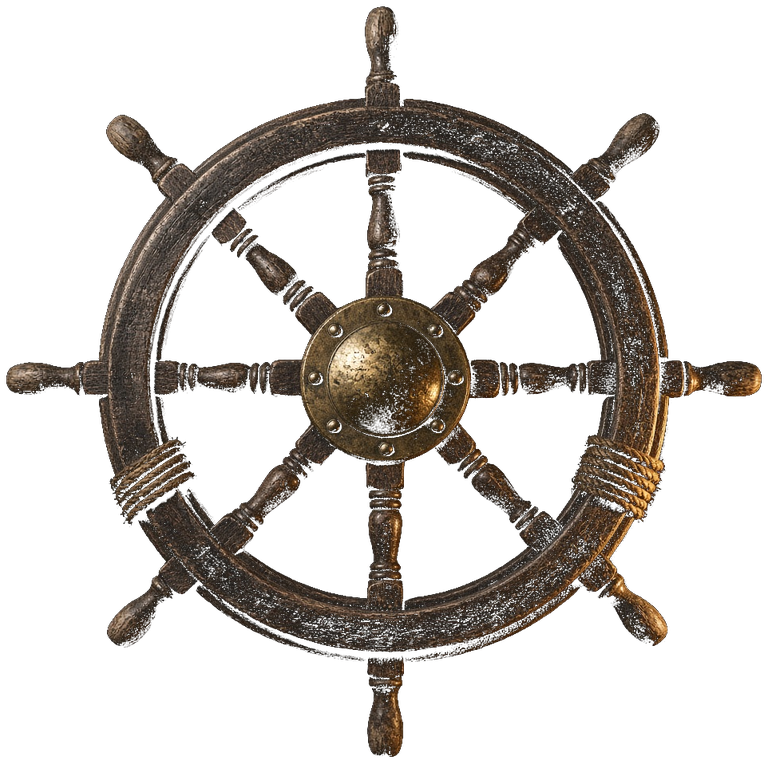
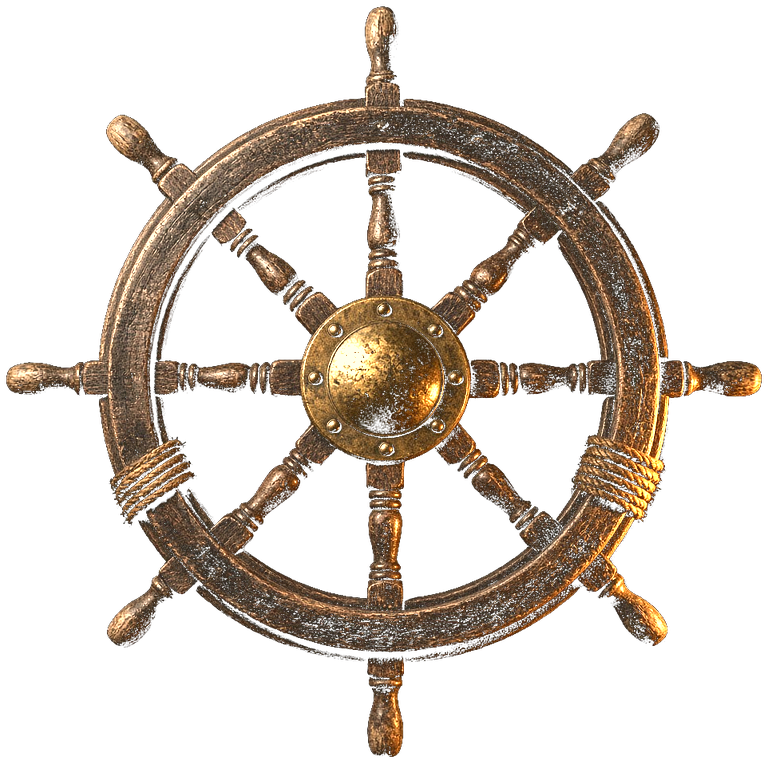
Ship: brighten PotC wheel composite, fix night-grade bleed
Wheel photo was getting a source-atop grade on the main canvas, which
darkened the deck through transparent pixels and made the helm look
ghosty. Grade on an offscreen canvas, lift wheel/deck exposure, bump
to ship.js?v=potc2.

Changed region(s): [[0.0, 0.0, 1.0, 0.9935]]

diff --git a/projects.html b/projects.html
@@ -13,5 +13,5 @@
 <div class="grid"><article class="proj glass feat" data-cat="Education"><a class="shot" href="https://inteloasis.com" target="_blank" rel="noopener" tabindex="-1"><img src="assets/shots/inteloasis.webp" alt="Screenshot of IntelOasis" loading="lazy" width="720" height="450"></a><div class="pb"><div class="ph2"><h3>IntelOasis</h3><span class="tag">Education</span></div><p><strong>Every problem has a thousand solutions. IntelOasis is where Charles keeps them.</strong> It is a living library of ideas, books, software, clubs, and traditions, and it is the roof over everything else here. <strong>It holds the vision. The products below put it into practice.</strong></p><ul class="stack"><li>React</li><li>Vite</li><li>Tailwind</li></ul><div class="links"><a class="btn" href="https://inteloasis.com" target="_blank" rel="noopener">Visit ↗</a><a class="btn ghost" href="https://github.com/charlesanthonyleone/intel-oasis" target="_blank" rel="noopener">GitHub ↗</a></div></div></article><article class="proj glass feat" data-cat="Games"><a class="shot" href="https://scavengia.com" target="_blank" rel="noopener" tabindex="-1"><img src="assets/shots/scavengia.webp" alt="Screenshot of Scavengia" loading="lazy" width="720" height="450"></a><div class="pb"><div class="ph2"><h3>Scavengia</h3><span class="tag">Games</span></div><p><strong>Scavengia is an AI-powered index of everything, and people build it by exploring the world.</strong> Players go out, open caches, and pay to explore. Each discovery adds real places, objects, images, lore, and rarity to a shared map of the planet. <strong>When everything has been found, the AI keeps digging.</strong> It surfaces the precedent: the history and the earlier finds behind each place. <strong>It connects people on opposite sides of the world</strong> through the same hunt. <strong>Ride-alongs fix two problems at once.</strong> Someone who is driving and can&#x27;t play takes along someone who can play but can&#x27;t move. The driver moves the game forward and the remote player gets to explore. <strong>Nobody is left out of the hunt.</strong></p><ul class="stack"><li>TypeScript</li><li>Capacitor Android</li></ul><div class="links"><a class="btn" href="https://scavengia.com" target="_blank" rel="noopener">Visit ↗</a></div></div></article><article class="proj glass feat" data-cat="Civic"><a class="shot" href="https://recordoflaw.com" target="_blank" rel="noopener" tabindex="-1"><img src="assets/shots/recordoflaw.webp" alt="Screenshot of RecordOfLaw" loading="lazy" width="720" height="450"></a><div class="pb"><div class="ph2"><h3>RecordOfLaw</h3><span class="tag">Civic/Politics</span></div><p><strong>Who made the law, when, and how.</strong> RecordOfLaw records offices, officeholders, and legal changes. <strong>Every entry is dated, sourced, and cross-linked.</strong> It starts with FDR and the New Deal, and the build checks its data before it compiles. <strong>The 2026 Midterm Tracker is live.</strong></p><ul class="stack"><li>Python pipeline</li><li>Vite + TS</li></ul><div class="links"><a class="btn" href="https://recordoflaw.com" target="_blank" rel="noopener">Visit ↗</a><a class="btn ghost" href="https://recordoflaw.com/midterms/" target="_blank" rel="noopener">2026 Midterm Tracker ↗</a></div></div></article><article class="proj glass" data-cat="Education"><a class="shot" href="https://leoneuniversity.org" target="_blank" rel="noopener" tabindex="-1"><img src="assets/shots/leone-university.webp" alt="Screenshot of Leone University" loading="lazy" width="720" height="450"></a><div class="pb"><div class="ph2"><h3>Leone University</h3><span class="tag">Education</span></div><p><strong>A think tank where ideas are kept as records.</strong> It started as a prototype on the Base44 AI app builder. <strong>Charles rebuilt it as a standalone React app</strong> that deploys automatically through GitHub Actions.</p><ul class="stack"><li>Vite</li><li>React</li></ul><div class="links"><a class="btn" href="https://leoneuniversity.org" target="_blank" rel="noopener">Visit ↗</a><a class="btn ghost" href="https://github.com/charlesanthonyleone/leone-university" target="_blank" rel="noopener">GitHub ↗</a></div></div></article><article class="proj glass" data-cat="Education"><a class="shot" href="https://library.leoneuniversity.org" target="_blank" rel="noopener" tabindex="-1"><img src="assets/shots/leone-library.webp" alt="Screenshot of Leone Library" loading="lazy" width="720" height="450"></a><div class="pb"><div class="ph2"><h3>Leone Library</h3><span class="tag">Education</span></div><p><strong>Read, translate, remix, and publish the public-domain classics.</strong> Its catalogue is fed by ingestion pipelines from Project Gutenberg and LibriVox. <strong>It&#x27;s a free library meant to be built on.</strong></p><ul class="stack"><li>TypeScript</li></ul><div class="links"><a class="btn" href="https://library.leoneuniversity.org" target="_blank" rel="noopener">Visit ↗</a><a class="btn ghost" href="https://github.com/charlesanthonyleone/leonelibrary" target="_blank" rel="noopener">GitHub ↗</a></div></div></article><article class="proj glass" data-cat="Community"><a class="shot" href="https://charlesanthonyleone.github.io/leoneguard-stats/" target="_blank" rel="noopener" tabindex="-1"><img src="assets/shots/leoneguard-stats.webp" alt="Screenshot of LeoneGuard" loading="lazy" width="720" height="450"></a><div class="pb"><div class="ph2"><h3>LeoneGuard</h3><span class="tag">Community</span></div><p><strong>Moderation that can tell venting from attacking.</strong> At its core is DramaScreen, a low-cost harassment detector that ignores banter and acts on targeted personal attacks. <strong>The public stats page shows only totals, with no names and no messages.</strong></p><ul class="stack"><li>TypeScript</li><li>Docker</li><li>Postgres</li><li>Redis</li><li>Local LLM</li></ul><div class="links"><a class="btn" href="https://charlesanthonyleone.github.io/leoneguard-stats/" target="_blank" rel="noopener">Visit ↗</a><a class="btn ghost" href="https://charlesanthonyleone.github.io/leoneguard-stats/" target="_blank" rel="noopener">Public stats ↗</a></div></div></article><article class="proj glass" data-cat="Community"><a class="shot" href="https://xatmarket.com" target="_blank" rel="noopener" tabindex="-1"><img src="assets/shots/xatmarket.webp" alt="Screenshot of XatMarket" loading="lazy" width="720" height="450"></a><div class="pb"><div class="ph2"><h3>XatMarket</h3><span class="tag">Community</span></div><p><strong>Services, staff, and ideas for xat communities.</strong> XatMarket is the home base for the xat chat community, and <strong>WarMap and XatCast launch from it.</strong></p><ul class="stack"><li>JavaScript</li></ul><div class="links"><a class="btn" href="https://xatmarket.com" target="_blank" rel="noopener">Visit ↗</a></div></div></article><article class="proj glass" data-cat="Community"><a class="shot" href="https://tv.xatmarket.com" target="_blank" rel="noopener" tabindex="-1"><img src="assets/shots/xatcast.webp" alt="Screenshot of XatCast" loading="lazy" width="720" height="450"></a><div class="pb"><div class="ph2"><h3>XatCast</h3><span class="tag">Community</span></div><p><strong>A broadcast network that airs only work the public is free to use.</strong> It runs always-on stations (XatArt, XatWar, XatSports, XatMusic) fed from the Met, the Art Institute of Chicago, Wikimedia Commons, and the Internet Archive. <strong>The license and attribution are recorded for every item.</strong> A shared broadcast clock means <strong>every viewer sees the same thing at the same second.</strong></p><ul class="stack"><li>TypeScript</li><li>Live</li></ul><div class="links"><a class="btn" href="https://tv.xatmarket.com" target="_blank" rel="noopener">Visit ↗</a></div></div></article><article class="proj glass" data-cat="Civic"><a class="shot" href="https://maps.xatmarket.com" target="_blank" rel="noopener" tabindex="-1"><img src="assets/shots/xatmaps.webp" alt="Screenshot of XatMaps · WarMap" loading="lazy" width="720" height="450"></a><div class="pb"><div class="ph2"><h3>XatMaps · WarMap</h3><span class="tag">Civic/Politics</span></div><p><strong>A live 3D night globe of world conflict. Free, open source, with no accounts, no paywall, and no tracking.</strong> It combines UCDP, GDELT (labeled &quot;auto-coded, unverified&quot;), NASA FIRMS heat detections, and Wikipedia control maps. <strong>Every event shows its source and a confidence label.</strong> It also has a daily brief, RSS feeds, and an embed mode.</p><ul class="stack"><li>3D globe</li><li>Open data</li></ul><div class="links"><a class="btn" href="https://maps.xatmarket.com" target="_blank" rel="noopener">Visit ↗</a></div></div></article><article class="proj glass" data-cat="Games"><a class="shot" href="https://blesshalo.com" target="_blank" rel="noopener" tabindex="-1"><img src="assets/shots/blesshalo.webp" alt="Screenshot of BlessHalo" loading="lazy" width="720" height="450"></a><div class="pb"><div class="ph2"><h3>BlessHalo</h3><span class="tag">Games</span></div><p><strong>UNSC : Bless is a private military Halo company, run like a real organization.</strong> It has houses, a charter, insignia, roles and medals, a Pro-Am series, mentorship, a Cadet Track, and a field manual. <strong>It&#x27;s a structure for leading a community.</strong></p><ul class="stack"></ul><div class="links"><a class="btn" href="https://blesshalo.com" target="_blank" rel="noopener">Visit ↗</a></div></div></article><article class="proj glass" data-cat="Games"><div class="shot ph"><span>Private · no public page</span></div><div class="pb"><div class="ph2"><h3>WoW AzerothCore server + xat in-game UI</h3><span class="tag">Games</span></div><p>A World of Warcraft 3.3.5 private server on AzerothCore, with a custom FrameXML Lua UI and native DLL proxy hooks (d3d9, dinput8, MinHook) that bring xat chat into the game client. The server also runs a local Qwen2.5-3B model. In progress.</p><ul class="stack"><li>C/C++</li><li>Lua</li><li>MySQL</li><li>Local LLM</li></ul><div class="links"></div></div></article><article class="proj glass" data-cat="Community"><a class="shot" href="https://lowdro.com" target="_blank" rel="noopener" tabindex="-1"><img src="assets/shots/lowdro.webp" alt="Screenshot of LowDro" loading="lazy" width="720" height="450"></a><div class="pb"><div class="ph2"><h3>LowDro</h3><span class="tag">Community</span></div><p><strong>A members-only, age-gated (21+) storefront for hemp-derived products, plus the security tool that protects it.</strong> Charles built lowdro-ir alongside the store. It is an incident-response analyzer that reads Supabase, Cloudflare, and Nginx logs and flags brute-force attempts, table enumeration, and misuse of privileged keys. <strong>He secures what he ships.</strong></p><ul class="stack"><li>Vite SPA</li><li>21+ age-gated</li></ul><div class="links"><a class="btn" href="https://lowdro.com" target="_blank" rel="noopener">Visit ↗</a></div></div></article><article class="proj glass" data-cat="Tools/AI"><a class="shot" href="https://charlesanthonyleone.github.io/tapback/" target="_blank" rel="noopener" tabindex="-1"><img src="assets/shots/tapback.webp" alt="Screenshot of Tapback" loading="lazy" width="720" height="450"></a><div class="pb"><div class="ph2"><h3>Tapback</h3><span class="tag">Tools/AI</span></div><p>“Your tap gets a comeback.” A sharp marketing site for a product idea — static multi-page, Python-built, shipped to GitHub Pages.</p><ul class="stack"><li>Static</li><li>Python build</li></ul><div class="links"><a class="btn" href="https://charlesanthonyleone.github.io/tapback/" target="_blank" rel="noopener">Visit ↗</a></div></div></article><article class="proj glass" data-cat="Tools/AI"><a class="shot" href="https://charlesanthonyleone.github.io/remote-robotics/" target="_blank" rel="noopener" tabindex="-1"><img src="assets/shots/remote-robotics.webp" alt="Screenshot of Remote Robotics" loading="lazy" width="720" height="450"></a><div class="pb"><div class="ph2"><h3>Remote Robotics</h3><span class="tag">Tools/AI</span></div><p>Concept site for human-supervised robotics R&amp;D — framing the problem of keeping a person in the loop when machines act at a distance.</p><ul class="stack"><li>Static</li></ul><div class="links"><a class="btn" href="https://charlesanthonyleone.github.io/remote-robotics/" target="_blank" rel="noopener">Visit ↗</a></div></div></article></div></section><footer class="foot"><p>© 2026 Charles Leone · <a href="https://github.com/charlesanthonyleone">github.com/charlesanthonyleone</a></p><p class="credit">Milky Way: <a href="https://www.eso.org/public/images/eso0932a/" rel="noopener">ESO/S. Brunier</a>, CC BY 4.0 · Moon: <a href="https://commons.wikimedia.org/wiki/File:FullMoon2010.jpg" rel="noopener">Gregory H. Revera</a>, CC BY-SA 3.0 · Ship deck &amp; lantern: drawn in code for this site</p></footer></main>
 <div class="scene-set"><div id="scene-panel" class="scene-panel glass" role="dialog" aria-label="Scene settings" hidden><label><input type="checkbox" id="set-ocean"> Ocean animation</label><label><input type="checkbox" id="set-sky"> Star &amp; sky animation</label><label><input type="checkbox" id="set-rock"> Ship rocking &amp; lantern</label><p>Off shows a still frame. Defaults follow your system's reduced-motion setting.</p></div>
 <button id="gear" class="scene-gear glass" aria-expanded="false" aria-label="Scene settings" title="Scene settings"><svg viewBox="0 0 24 24" width="18" height="18" aria-hidden="true"><path fill="currentColor" d="M19.4 13a7.5 7.5 0 0 0 0-2l2-1.6-2-3.4-2.4 1a7 7 0 0 0-1.7-1L15 3.5h-4l-.4 2.5a7 7 0 0 0-1.7 1l-2.4-1-2 3.4L6.6 11a7.5 7.5 0 0 0 0 2l-2 1.6 2 3.4 2.4-1a7 7 0 0 0 1.7 1l.4 2.5h4l.4-2.5a7 7 0 0 0 1.7-1l2.4 1 2-3.4zM13 15.5a3.5 3.5 0 1 1 0-7 3.5 3.5 0 0 1 0 7z" transform="translate(-1 0)"/></svg></button></div>
-<script src="assets/scene.js" defer></script><script src="assets/ship.js?v=potc1" defer></script><script src="assets/pages.js" defer></script>
+<script src="assets/scene.js" defer></script><script src="assets/ship.js?v=potc2" defer></script><script src="assets/pages.js" defer></script>
 </body></html>

diff --git a/index.html b/index.html
@@ -13,5 +13,5 @@
 <section class="doors"><a class="door glass" href="story.html"><span class="eyebrow">The log</span><b>My Story</b><span>In my own words — 12 min read</span></a><a class="door glass" href="projects.html"><span class="eyebrow">The work</span><b>Projects</b><span>14 things built and live</span></a></section><section class="featured"><div class="sec-h"><h2 class="sh">Flagship</h2><a class="hint" href="projects.html">All 14 projects →</a></div><div class="grid"><article class="proj glass feat" data-cat="Education"><a class="shot" href="https://inteloasis.com" target="_blank" rel="noopener" tabindex="-1"><img src="assets/shots/inteloasis.webp" alt="Screenshot of IntelOasis" loading="lazy" width="720" height="450"></a><div class="pb"><div class="ph2"><h3>IntelOasis</h3><span class="tag">Education</span></div><p><strong>Every problem has a thousand solutions. IntelOasis is where Charles keeps them.</strong> It is a living library of ideas, books, software, clubs, and traditions, and it is the roof over everything else here. <strong>It holds the vision. The products below put it into practice.</strong></p><ul class="stack"><li>React</li><li>Vite</li><li>Tailwind</li></ul><div class="links"><a class="btn" href="https://inteloasis.com" target="_blank" rel="noopener">Visit ↗</a><a class="btn ghost" href="https://github.com/charlesanthonyleone/intel-oasis" target="_blank" rel="noopener">GitHub ↗</a></div></div></article><article class="proj glass feat" data-cat="Games"><a class="shot" href="https://scavengia.com" target="_blank" rel="noopener" tabindex="-1"><img src="assets/shots/scavengia.webp" alt="Screenshot of Scavengia" loading="lazy" width="720" height="450"></a><div class="pb"><div class="ph2"><h3>Scavengia</h3><span class="tag">Games</span></div><p><strong>Scavengia is an AI-powered index of everything, and people build it by exploring the world.</strong> Players go out, open caches, and pay to explore. Each discovery adds real places, objects, images, lore, and rarity to a shared map of the planet. <strong>When everything has been found, the AI keeps digging.</strong> It surfaces the precedent: the history and the earlier finds behind each place. <strong>It connects people on opposite sides of the world</strong> through the same hunt. <strong>Ride-alongs fix two problems at once.</strong> Someone who is driving and can&#x27;t play takes along someone who can play but can&#x27;t move. The driver moves the game forward and the remote player gets to explore. <strong>Nobody is left out of the hunt.</strong></p><ul class="stack"><li>TypeScript</li><li>Capacitor Android</li></ul><div class="links"><a class="btn" href="https://scavengia.com" target="_blank" rel="noopener">Visit ↗</a></div></div></article><article class="proj glass feat" data-cat="Civic"><a class="shot" href="https://recordoflaw.com" target="_blank" rel="noopener" tabindex="-1"><img src="assets/shots/recordoflaw.webp" alt="Screenshot of RecordOfLaw" loading="lazy" width="720" height="450"></a><div class="pb"><div class="ph2"><h3>RecordOfLaw</h3><span class="tag">Civic/Politics</span></div><p><strong>Who made the law, when, and how.</strong> RecordOfLaw records offices, officeholders, and legal changes. <strong>Every entry is dated, sourced, and cross-linked.</strong> It starts with FDR and the New Deal, and the build checks its data before it compiles. <strong>The 2026 Midterm Tracker is live.</strong></p><ul class="stack"><li>Python pipeline</li><li>Vite + TS</li></ul><div class="links"><a class="btn" href="https://recordoflaw.com" target="_blank" rel="noopener">Visit ↗</a><a class="btn ghost" href="https://recordoflaw.com/midterms/" target="_blank" rel="noopener">2026 Midterm Tracker ↗</a></div></div></article></div></section><footer class="foot"><p>© 2026 Charles Leone · <a href="https://github.com/charlesanthonyleone">github.com/charlesanthonyleone</a></p><p class="credit">Milky Way: <a href="https://www.eso.org/public/images/eso0932a/" rel="noopener">ESO/S. Brunier</a>, CC BY 4.0 · Moon: <a href="https://commons.wikimedia.org/wiki/File:FullMoon2010.jpg" rel="noopener">Gregory H. Revera</a>, CC BY-SA 3.0 · Ship: photoreal timber &amp; wheel textures composited on a procedural helm deck</p></footer></main>
 <div class="scene-set"><div id="scene-panel" class="scene-panel glass" role="dialog" aria-label="Scene settings" hidden><label><input type="checkbox" id="set-ocean"> Ocean animation</label><label><input type="checkbox" id="set-sky"> Star &amp; sky animation</label><label><input type="checkbox" id="set-rock"> Ship rocking &amp; lantern</label><p>Off shows a still frame. Defaults follow your system's reduced-motion setting.</p></div>
 <button id="gear" class="scene-gear glass" aria-expanded="false" aria-label="Scene settings" title="Scene settings"><svg viewBox="0 0 24 24" width="18" height="18" aria-hidden="true"><path fill="currentColor" d="M19.4 13a7.5 7.5 0 0 0 0-2l2-1.6-2-3.4-2.4 1a7 7 0 0 0-1.7-1L15 3.5h-4l-.4 2.5a7 7 0 0 0-1.7 1l-2.4-1-2 3.4L6.6 11a7.5 7.5 0 0 0 0 2l-2 1.6 2 3.4 2.4-1a7 7 0 0 0 1.7 1l.4 2.5h4l.4-2.5a7 7 0 0 0 1.7-1l2.4 1 2-3.4zM13 15.5a3.5 3.5 0 1 1 0-7 3.5 3.5 0 0 1 0 7z" transform="translate(-1 0)"/></svg></button></div>
-<script src="assets/scene.js" defer></script><script src="assets/ship.js?v=potc1" defer></script><script src="assets/pages.js" defer></script>
+<script src="assets/scene.js" defer></script><script src="assets/ship.js?v=potc2" defer></script><script src="assets/pages.js" defer></script>
 </body></html>

diff --git a/assets/ship.js b/assets/ship.js
@@ -108,8 +108,8 @@
       const dk=c.createRadialGradient(0,0,0,0,0,rr);
       dk.addColorStop(0,'rgba(12,7,4,.12)');
       dk.addColorStop(.28,'rgba(6,6,10,.48)');
-      dk.addColorStop(.65,'rgba(4,6,12,.72)');
-      dk.addColorStop(1,'rgba(3,5,10,.82)');
+      dk.addColorStop(.65,'rgba(4,6,12,.62)');
+      dk.addColorStop(1,'rgba(3,5,10,.70)');
       c.fillStyle=dk;c.fillRect(-W*2,-H*2,W*4,H*4);c.restore();
 
       // Bow fog into the night sea
@@ -216,7 +216,7 @@
 
     // --- ship's wheel: photoreal PNG composited at the helm (not flat canvas arcs)
     {
-      const R=Math.min(W*.22, H*.23);
+      const R=Math.min(W*.24, H*.26);
       const wx=cx-(narrow?0:W*.05);
       const wy=H-R*.28;
 
@@ -242,26 +242,28 @@
       dc.restore();
 
       if(WHL.complete&&WHL.naturalWidth){
-        const size=R*2.35;
+        const size=R*2.45;
+        // Grade on an offscreen canvas so transparent wheel pixels don't darken the deck
+        const oc=document.createElement('canvas'); oc.width=Math.ceil(size); oc.height=Math.ceil(size);
+        const o=oc.getContext('2d');
+        o.imageSmoothingEnabled=true;o.imageSmoothingQuality='high';
+        o.drawImage(WHL, 0, 0, oc.width, oc.height);
+        o.globalCompositeOperation='source-atop';
+        const ng=o.createRadialGradient(oc.width*.35,oc.height*.3,0,oc.width/2,oc.height/2,oc.width*.55);
+        ng.addColorStop(0,'rgba(255,185,100,.16)');
+        ng.addColorStop(.55,'rgba(0,0,0,0)');
+        ng.addColorStop(1,'rgba(0,4,12,.16)');
+        o.fillStyle=ng;o.fillRect(0,0,oc.width,oc.height);
+        const wl=o.createLinearGradient(0,0,oc.width,oc.height*.6);
+        wl.addColorStop(0,'rgba(0,0,0,.10)');
+        wl.addColorStop(.5,'rgba(255,170,80,.08)');
+        wl.addColorStop(1,'rgba(255,200,120,.24)');
+        o.fillStyle=wl;o.fillRect(0,0,oc.width,oc.height);
         dc.save();
         dc.imageSmoothingEnabled=true;dc.imageSmoothingQuality='high';
-        // slight tilt toward lantern side for depth
         dc.translate(wx, wy);
         dc.rotate(narrow?0.02:-0.04);
-        dc.drawImage(WHL, -size/2, -size/2, size, size);
-        // Night grade so the studio-lit wheel matches the dark deck
-        dc.globalCompositeOperation='source-atop';
-        const ng=dc.createRadialGradient(-size*.15,-size*.2,0,0,0,size*.65);
-        ng.addColorStop(0,'rgba(255,175,90,.10)');
-        ng.addColorStop(.45,'rgba(0,0,0,0)');
-        ng.addColorStop(1,'rgba(0,4,12,.38)');
-        dc.fillStyle=ng;dc.fillRect(-size/2,-size/2,size,size);
-        // lantern-side warm rim light
-        const wl=dc.createLinearGradient(-size*.4,0,size*.5,size*.2);
-        wl.addColorStop(0,'rgba(0,0,0,.25)');
-        wl.addColorStop(.55,'rgba(255,160,70,.06)');
-        wl.addColorStop(1,'rgba(255,190,110,.16)');
-        dc.fillStyle=wl;dc.fillRect(-size/2,-size/2,size,size);
+        dc.drawImage(oc, -size/2, -size/2, size, size);
         dc.restore();
       }else{
         // Fallback procedural wheel if PNG fails

diff --git a/story.html b/story.html
@@ -38,5 +38,5 @@ November 5, 2026</pre>
 </section></div><footer class="foot"><p>© 2026 Charles Leone · <a href="https://github.com/charlesanthonyleone">github.com/charlesanthonyleone</a></p><p class="credit">Milky Way: <a href="https://www.eso.org/public/images/eso0932a/" rel="noopener">ESO/S. Brunier</a>, CC BY 4.0 · Moon: <a href="https://commons.wikimedia.org/wiki/File:FullMoon2010.jpg" rel="noopener">Gregory H. Revera</a>, CC BY-SA 3.0 · Ship deck &amp; lantern: drawn in code for this site</p></footer></main>
 <div class="scene-set"><div id="scene-panel" class="scene-panel glass" role="dialog" aria-label="Scene settings" hidden><label><input type="checkbox" id="set-ocean"> Ocean animation</label><label><input type="checkbox" id="set-sky"> Star &amp; sky animation</label><label><input type="checkbox" id="set-rock"> Ship rocking &amp; lantern</label><p>Off shows a still frame. Defaults follow your system's reduced-motion setting.</p></div>
 <button id="gear" class="scene-gear glass" aria-expanded="false" aria-label="Scene settings" title="Scene settings"><svg viewBox="0 0 24 24" width="18" height="18" aria-hidden="true"><path fill="currentColor" d="M19.4 13a7.5 7.5 0 0 0 0-2l2-1.6-2-3.4-2.4 1a7 7 0 0 0-1.7-1L15 3.5h-4l-.4 2.5a7 7 0 0 0-1.7 1l-2.4-1-2 3.4L6.6 11a7.5 7.5 0 0 0 0 2l-2 1.6 2 3.4 2.4-1a7 7 0 0 0 1.7 1l.4 2.5h4l.4-2.5a7 7 0 0 0 1.7-1l2.4 1 2-3.4zM13 15.5a3.5 3.5 0 1 1 0-7 3.5 3.5 0 0 1 0 7z" transform="translate(-1 0)"/></svg></button></div>
-<script src="assets/scene.js" defer></script><script src="assets/ship.js?v=potc1" defer></script><script src="assets/pages.js" defer></script>
+<script src="assets/scene.js" defer></script><script src="assets/ship.js?v=potc2" defer></script><script src="assets/pages.js" defer></script>
 </body></html>
